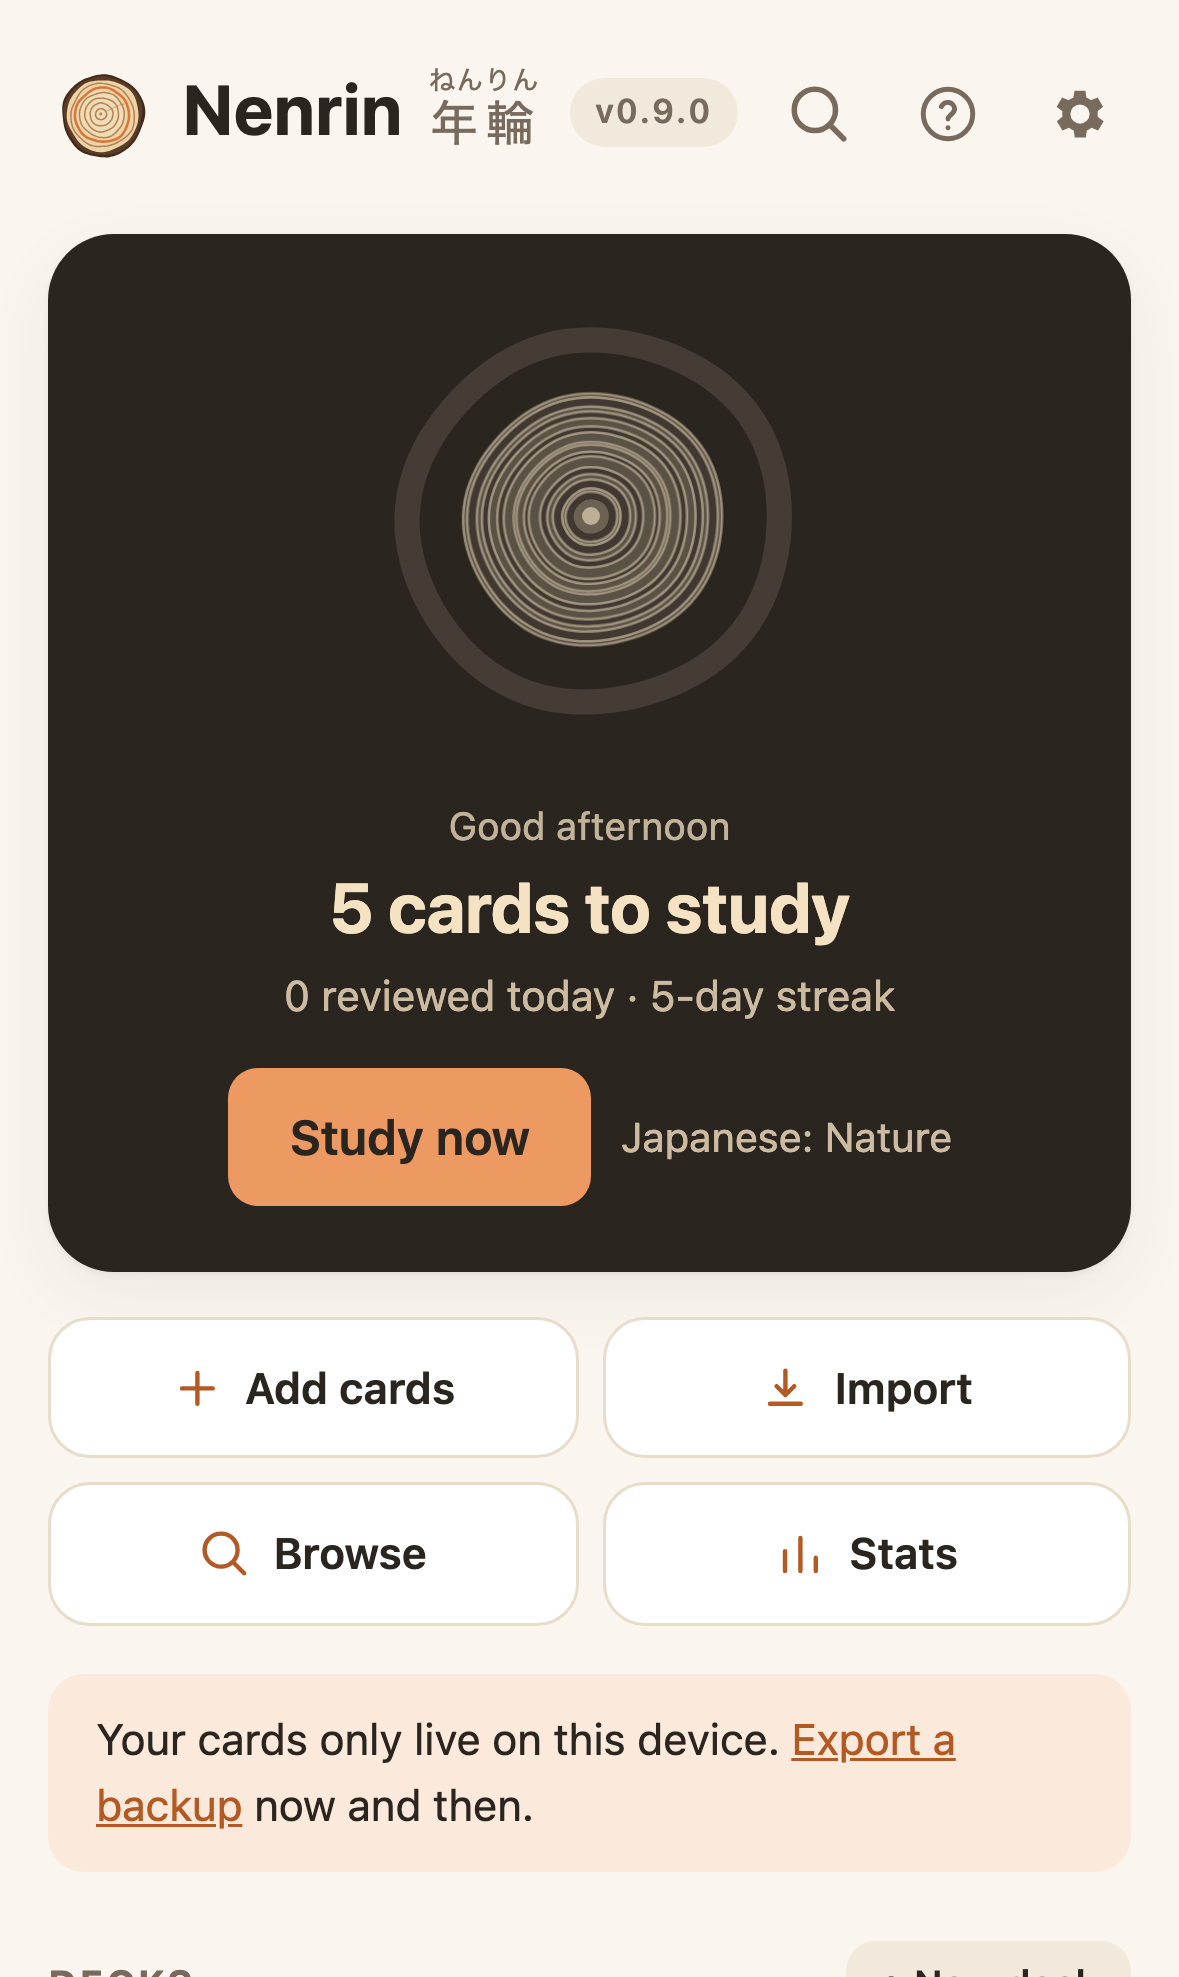
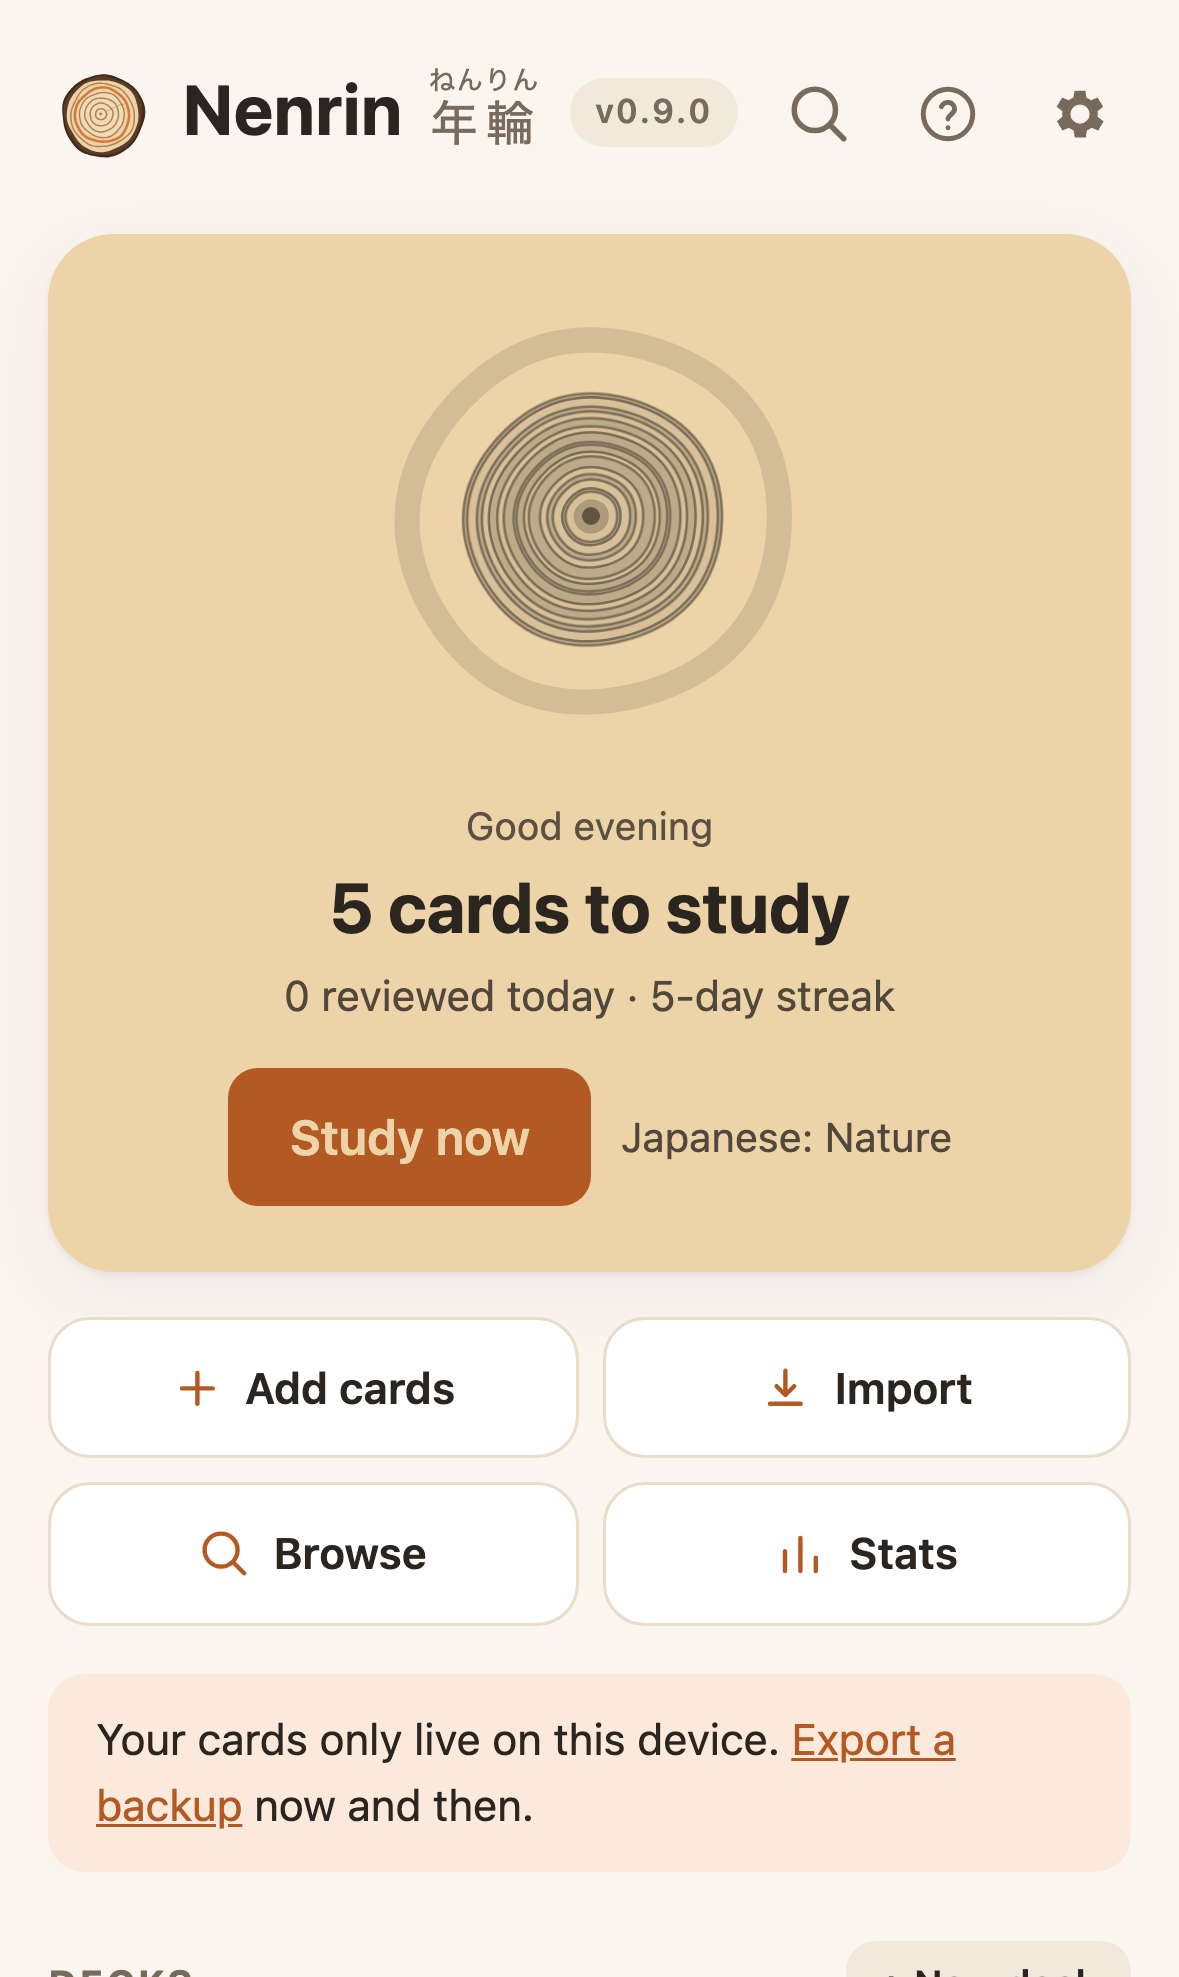
fix: light tan home card in light mode too
The near-black hero card was the heaviest thing on the light page. Use
the dark theme's tan card, accent and season colors in light mode as well,
and regenerate screenshots.

Claude-Session: https://claude.ai/code/session_01YXeJB56bC91TWtyJLmZz8E

diff --git a/src/app.css b/src/app.css
@@ -44,9 +44,9 @@
   --accent: var(--accent-l);
   --accent-text: #ffffff;
   --accent-soft: var(--accent-soft-l);
-  --hero: #2b2520;
-  --hero-text: #f4e2c2;
-  --hero-accent: var(--accent-d);
+  --hero: #ecd3a8;
+  --hero-text: #2b2520;
+  --hero-accent: var(--accent-l);
   --shadow: 0 1px 2px rgb(43 37 32 / 6%), 0 8px 24px rgb(43 37 32 / 6%);
   --again: #b8322a;
   /* Image occlusion masks: opaque, so they hide what's under them. */
@@ -56,9 +56,9 @@
   --stamp: #c2371f;
   --stamp-text: #fff;
   --season-spring: #c95f80;
-  --season-summer: #8cc277;
-  --season-autumn: #e8773f;
-  --season-winter: #f4f8fb;
+  --season-summer: #4f8a3e;
+  --season-autumn: #b8441c;
+  --season-winter: #6f93b3;
   --hard: #8a6a2f;
   --good: #2f7a4a;
   --easy: #2c6a9a;
